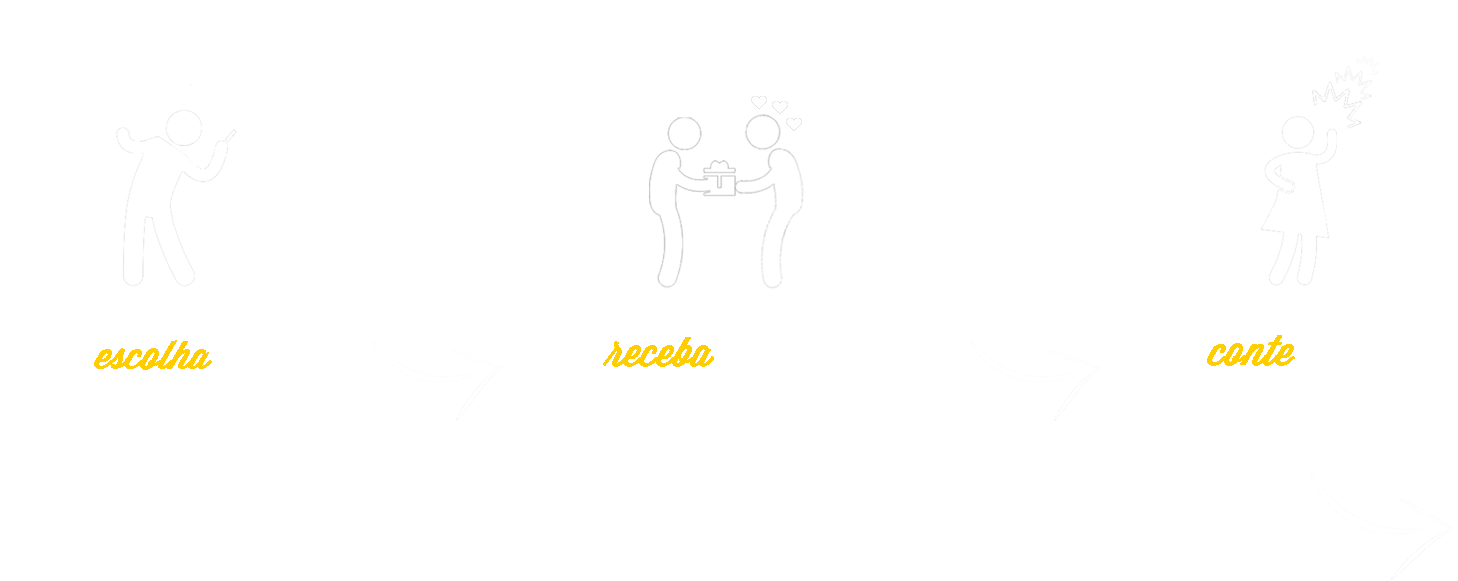
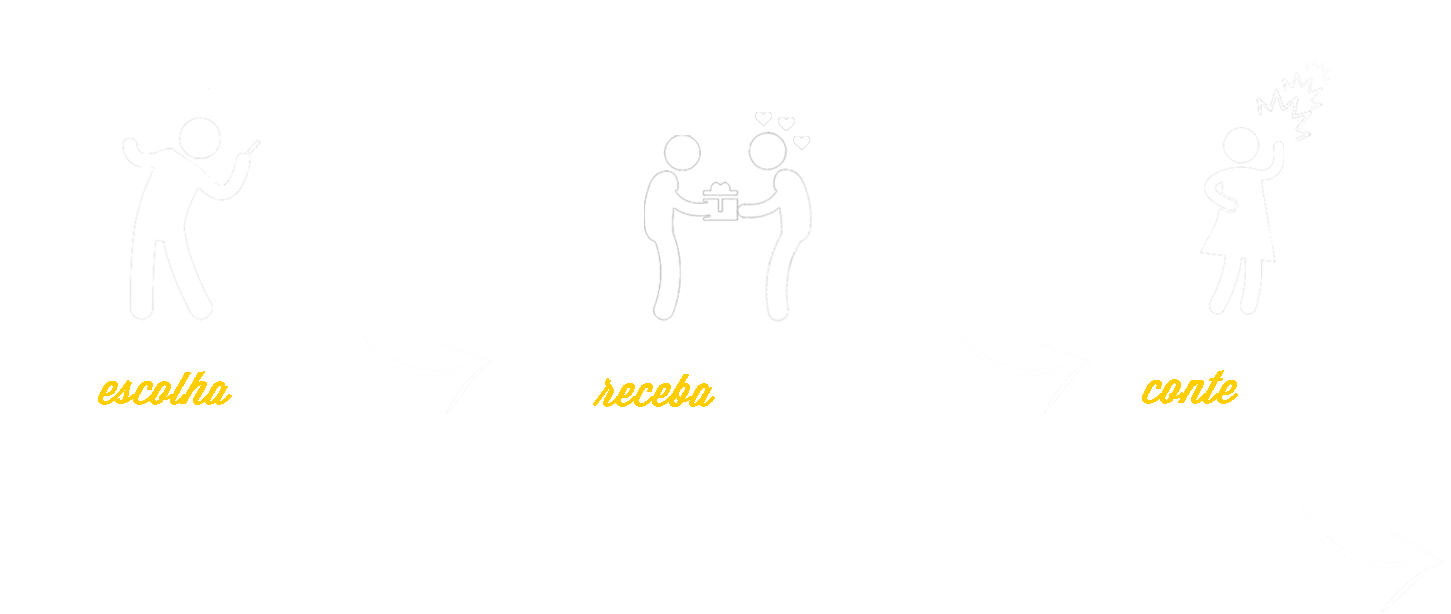
nova imagem da home

diff --git a/app/views/main.html b/app/views/main.html
@@ -1,3 +1,4 @@
+
     <!-- INTRO -->
     <section id="intro" class="intro4">
       <div class="overlay"></div>
@@ -6,20 +7,11 @@
 
 
               <div class="col-md-7" style="">
-                    <span style="font-weight: 600; color:#fff; font-size:36px;">Receba produtos grátis em sua casa!</span>
-                    <div class="col-md-14" style="color:#f0f0f0; " >Quer fazer parte do Clube de Oportunidades, receber produtos em casa de graça e nos contar o que achou?</div>
-                    <img class="img-responsive" src="images/bg_home.png" alt=""  style="width:150%; margin-top:5%;">
+                    <span style="font-weight: 600; color:#f0f0f0; font-size:36px;">Receba produtos grátis em sua casa!</span>
+                    <div class="col-md-14" style="color:#f0f0f0; margin-bottom:8%;" >Quer fazer parte do Clube de Oportunidades, receber produtos em casa de graça e nos contar o que achou?</div>
+                    <img class="img-responsive" src="images/bg_home.png" alt=""  style="">
                 </div>
                 
-
-
-          <!--
-          <div class="col-md-7" style="margin-bottom:15%;">
-            <h2 style=" font-weight: 600; font-size:43px; margin-top:-10px; ">Receba produtos grátis em sua casa!</h2>
-            <p class="lead" style="margin-top:-30px;" >Quer fazer parte do Clube de Oportunidades, receber produtos em casa de graça e nos contar o que achou?</p>
-            <img class="img-responsive" src="images/bg_home.png" alt=""  style="width:150%">
-          </div>-->
-
           <div class="col-md-5 sub-form">
             <div id="sub-form">
               <form class="subscribe" novalidate id="invite" >
@@ -296,6 +288,3 @@
 </div>
 </footer>
 <!-- FOOTER -->
-
-
-

diff --git a/app/styles/style.css b/app/styles/style.css
@@ -588,7 +588,7 @@ header {
 /* 3.4. Intro / 4 */
 
 #intro.intro4 {
-	padding: 10% 0 0 0;
+	padding: 10% 0 13% 0;
 	position: relative;
 	background: url(../images/bg/4.jpg) no-repeat top right;
 	background-size: 100% auto;
